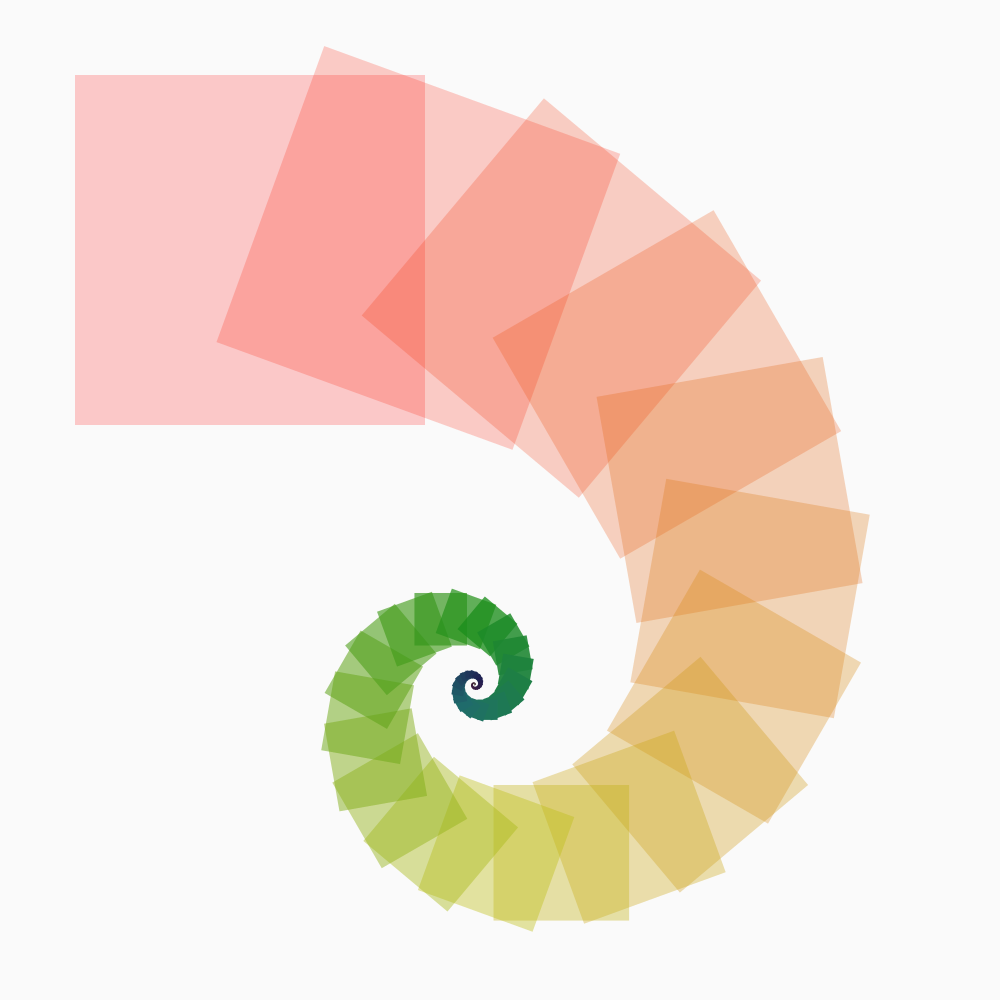
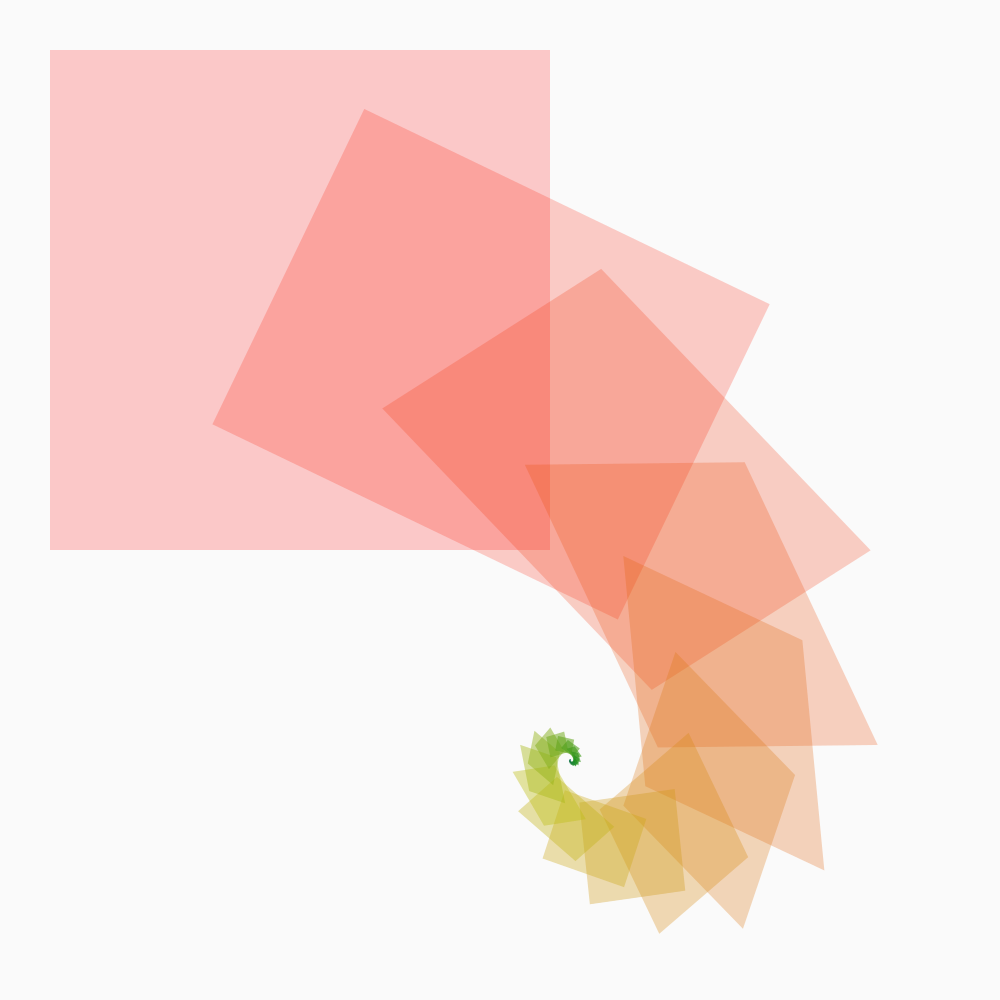
Added non-uniform scaling and example

diff --git a/README.md b/README.md
@@ -44,7 +44,6 @@ throw off the aspect ratio - squares will be drawn as rectangles.
 primitives or average depth.
 * Stopping rendering on grammars that don't converge (e.g. limiting
 recursion depth or number of primitives)
-* Non-uniform scaling
 * Support for separate stroke and fill, and perhaps thickness
 * Better colorspace than "plain" RGB.
 [colour](https://hackage.haskell.org/package/colour) can probably help
